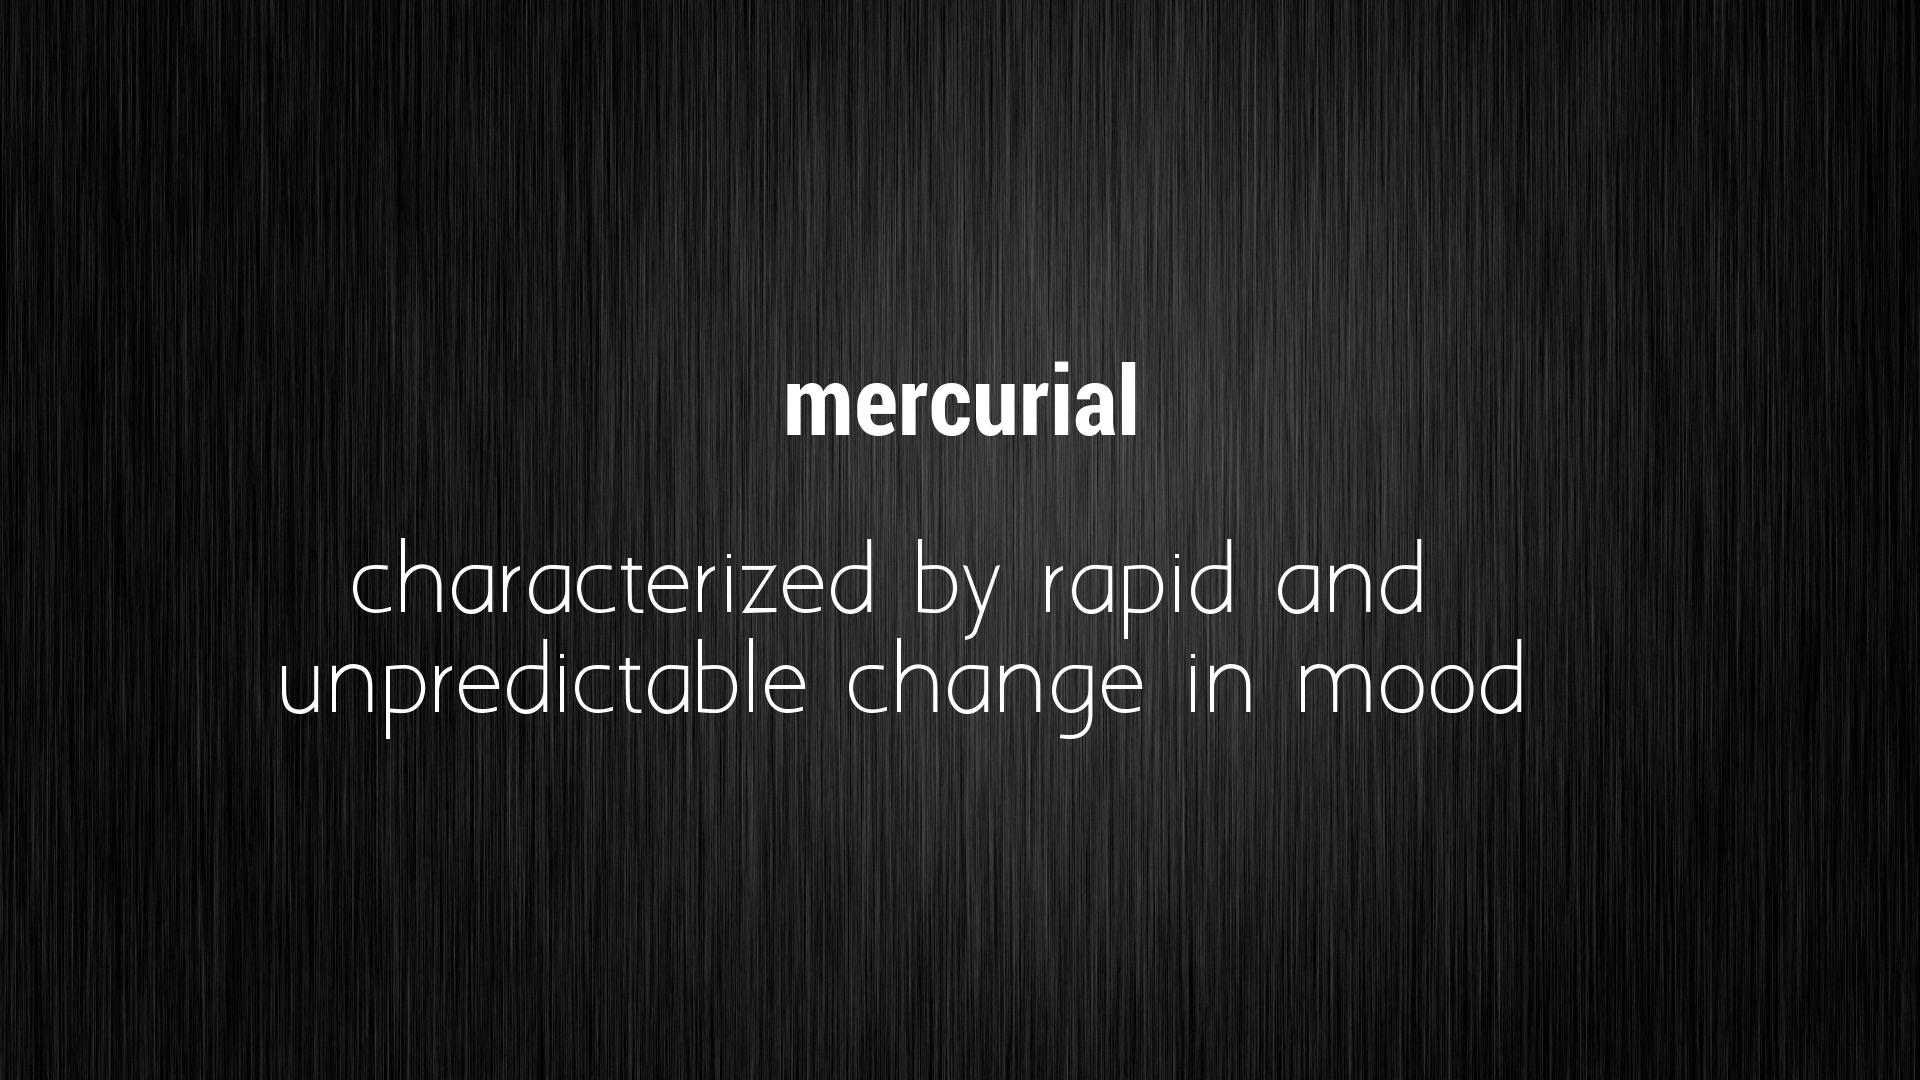
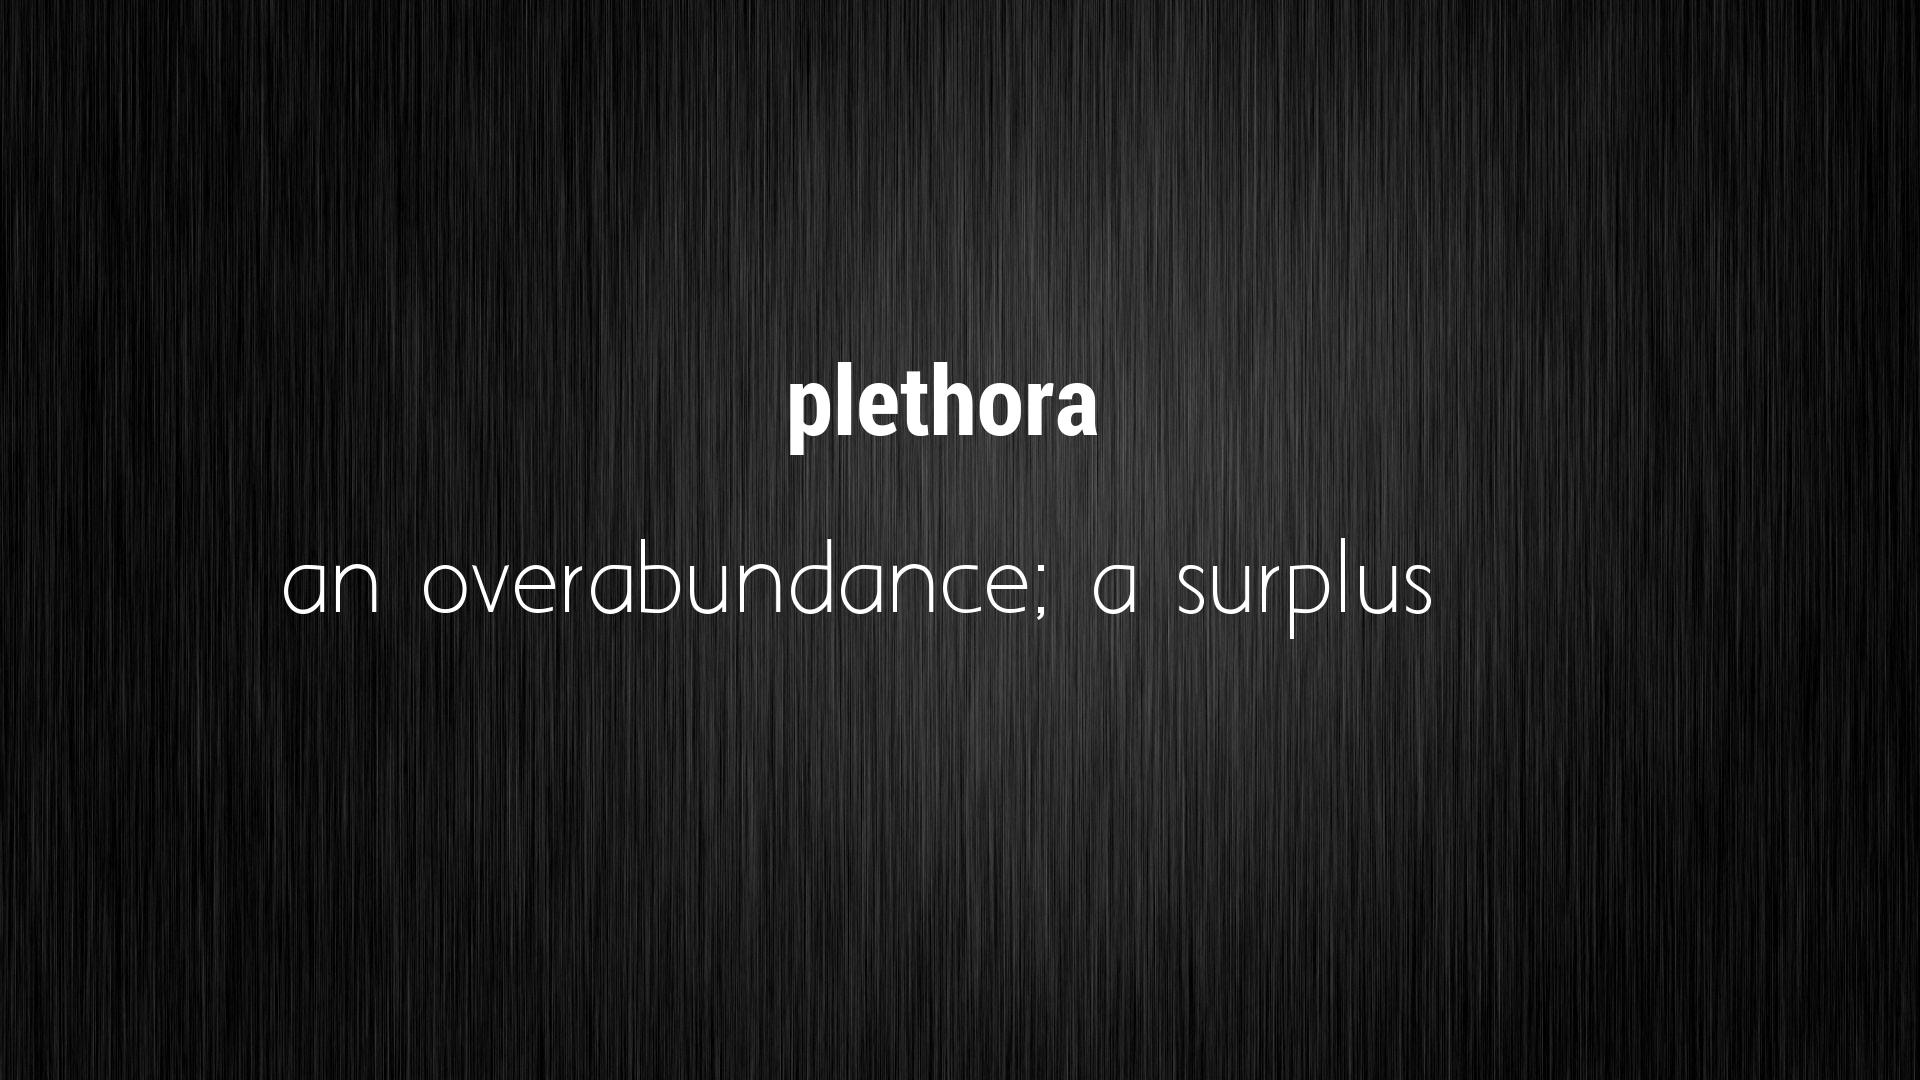
[ADD] Code to make word families appear on the wallpaper

diff --git a/make_wallpaper.py b/make_wallpaper.py
@@ -56,22 +56,7 @@ def update_words(lines):
         f1.write(json.dumps(today_words))
 
 
-def main():
-    lines = open('vocab-list.txt').readlines()
-
-    # Check if files are empty (today's words and seen words)
-    prepare_empty_files(lines)
-
-    if (json.loads(open('today-words.txt').read())).get('last_updated') != datetime.datetime.today().strftime(
-            "%Y-%m-%d"):
-        # Update the set of words everyday
-        update_words(lines)
-
-    today_words = json.loads(open('today-words.txt').read())
-    words = set(today_words.get('words').keys()) - {today_words.get('last_word')}
-    current_word = random.sample(words, 1)[0]
-    current_meaning = today_words['words'].get(current_word)
-
+def edit_wallpaper(current_word, current_meaning):
     # Editing the background image
     img = Image.open('sample.jpg')
     draw = ImageDraw.Draw(img)
@@ -90,9 +75,49 @@ def main():
         padding += 100
     img.save('wallpaper.jpg')
 
+
+def single_word_meaning():
+    lines = open('vocab-list.txt').readlines()
+
+    # Check if files are empty (today's words and seen words)
+    prepare_empty_files(lines)
+
+    if (json.loads(open('today-words.txt').read())).get('last_updated') != datetime.datetime.today().strftime(
+            "%Y-%m-%d"):
+        # Update the set of words everyday
+        update_words(lines)
+
+    today_words = json.loads(open('today-words.txt').read())
+    words = set(today_words.get('words').keys()) - {today_words.get('last_word')}
+    current_word = random.sample(words, 1)[0]
+    current_meaning = today_words['words'].get(current_word)
+
+    edit_wallpaper(current_word, current_meaning)
+
+    # Update today's words
     today_words['last_word'] = current_word
     with open('today-words.txt', 'w') as f1:
         f1.write(json.dumps(today_words))
+
+
+def show_word_family():
+    with open('json_words_families.txt', 'r') as file:
+        word_json = json.loads(file.read())
+        meaning = random.choice(list(word_json.keys()))
+        words = ", ".join(word_json[meaning])
+        edit_wallpaper(meaning, words)
+
+
+def main():
+    x = random.randint(0,1)
+    single_word_meaning()
+    # show_word_family()
+    # if x == 0:
+    #     single_word_meaning()
+    # else:
+    #     show_word_family()
+
+    
 
 
 if __name__ == "__main__": main()
